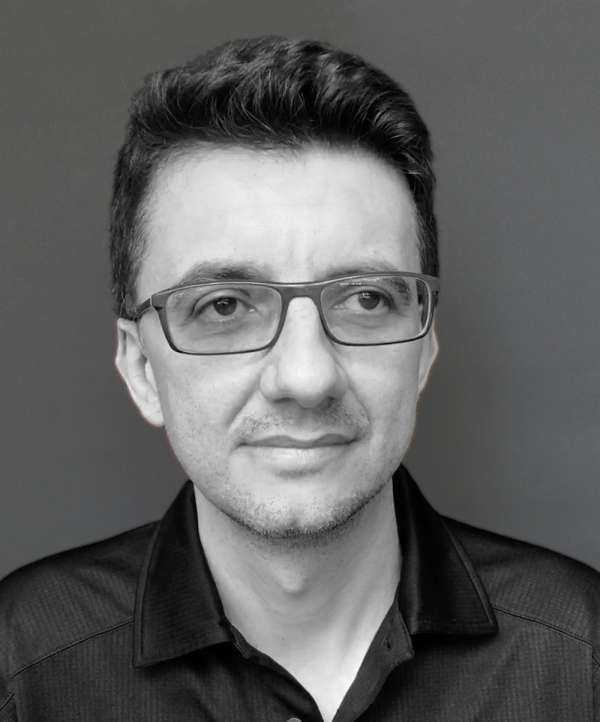
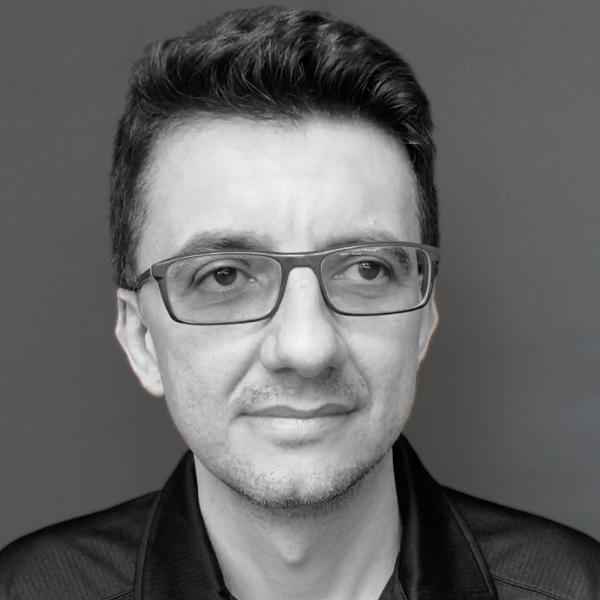
photo resize

diff --git a/_pages/authors.md b/_pages/authors.md
@@ -11,19 +11,15 @@ headm: 20
 
 # Katie Pine 
 
- <img src="./assets/imgs/katie_pine.jpeg" width="{{page.headw}}px"
- height="{{page.headh}}px" style="float: right; margin-right: {{page.headm}}px"; />
+ <img src="./assets/imgs/katie_pine.jpeg" width="400px"
+ style="float: right; margin-left: 10px"; />
 
  Katie Pine is an Assistant Professor in the College of Health Solutions at Arizona State University. Her interdisciplinary work lies at the intersection of health informatics, human-computer interaction (HCI), computer supported cooperative work (CSCW), and organization studies. She draws on and contributes to these fields with a focus on technology and work in the context of healthcare. Her work specifically examines how people use information and communications technologies (ICTs) as part of healthcare practice and how the design of ICTs, the contexts of ICT use, and the ways that people use ICTs impact how people give and receive healthcare. Pine has an ongoing stream of research examining data work, the situated social, technical, and organizational practices through which data are created, managed, and deployed. She utilizes primarily qualitative methods and collaborates to conduct team-based mixed methods studies and action research in concert with community and clinical partners. 
 
- <img src="./assets/imgs/logo/asu.png" width="400px" height="100px"/>
 
 # Yunan Chen 
- <img src="./assets/imgs/yunan_chen.jpeg" width="{{page.headw}}px"
- height="{{page.headh}}px" style="float: right; margin-right: {{page.headm}}px"; />
-
+ <img src="./assets/imgs/yunan_chen.jpeg" width="400px" style="float: right; margin-left: 10px";/>
 Yunan Chen is an associate professor of Informatics at Donald Bren School of Information and Computer Sciences at the University of California, Irvine (UCI), with an adjunct appointment in the Program in Public Health, College of Health Sciences. Her area of research lies at the intersection of human–computer interaction (HCI), computer supported cooperative work (CSCW), and health informatics. As a physician by training, she is interested in studying how health information is generated, managed, shared, and utilized to drive better care in both clinical and patient-oriented settings. In particular, she studies how end users (i.e., frontline clinicians, patients, and caregivers) interact with computerized technology. Her work reveals critical design problems that are not compatible with end users’ workflow and preferences and provides design insights to overcome these issues.
-<img src="./assets/imgs/logo/uci-logo.png" width="400px", height="100px" />
 
 
 # Melissa Mazmanian 
@@ -31,27 +27,27 @@ Yunan Chen is an associate professor of Informatics at Donald Bren School of Inf
  <img src="./assets/imgs/melissa.jpg" width="400px"
   style="float: right; margin-right: 10px;" />
 Melissa Mazmanian is a Professor and Chancellor’s Professor of Informatics at the Donald Bren School of Information and Computer Sciences and, jointly, of Organization and Management at the Merage School of Business at the University of California, Irvine. Melissa’s research interests revolve around the use of digital technologies in personal and organizational contexts, specifically in relation to  everyday work practice, communication patterns, and the nature of time in the digital age. She has published numerous papers in venues such as the Academy of Management Journal, Organization Science, MIS Quarterly, and the ACM conferences on Computer Human Interaction and Computer Supported Cooperative Work. She earned a PhD in Organization Studies from the MIT Sloan School of Management and a Masters in Information Economics, Management and Policy from the University of Michigan, School of Information
-<img src="./assets/imgs/logo/uci-logo.png" width="400px", height="100px" />
+
 
 # Mauricio Mejia
 
  <img src="./assets/imgs/mauricio-mejia-600x.png" width="400px"
- style="float: right; margin-right: 10px;" />
+ style="float: right; margin-left: 10px;" />
 G. Mauricio Mejía is a strategic design practitioner and scholar. He currently is Associate Professor of Design and Assistant Director of Research and Knowledge Enterprise for The Design School at Arizona State University. His current work is about strategic design and theories of change. He often collaborates with practitioners and researchers in other fields such as health, sustainability, business, and education. Dr. Mejía studies and works with diverse current and emergent design practices and approaches such as design research, visual sense-making, service design, experience design, co-design, and design futures. He received a PhD in Design from the University of Minnesota, Twin Cities, and a Master of Design degree from the University of Cincinnati.
-<img src="./assets/imgs/logo/asu.png" width="400px" height="100px"/>
 
 
 # Myeon Lee 
 
  <img src="./assets/imgs/Myeong.jpg" width="400px"
- style="float: right; margin-right: 10px;" />
+ style="float: right; margin-left: 10px;" />
+
 Myeong Lee is an Assistant Professor of Information Science and the Director of Community Informatics Lab (CIL) at the Department of Information Sciences and Technology at George Mason University. His research interests are in understanding the dynamics of local communities, technology-enabled groups, and information inequality. Though developing theories of information access and leveraging computational approaches, he aims to help reduce information inequality and contribute to civic engagement, policy-making, socio-technical systems theories, and information access. He earned a Ph.D. in Information Studies and a Master of Information Management from the University of Maryland's iSchool; he also received MS in Software Engineering and BS in Electrical Engineering degrees from Seoul National University in South Korea. 
-<img src="./assets/imgs/logo/gmu.png" width="400px", height="100px"/>
+
 
 # Rachel Warren 
 
- <img src="./assets/imgs/rachel_warren.jpg" width="400px" height = "400px"
-  style="float: right; margin-right: 10px;" />
+ <img src="./assets/imgs/rachel_warren.jpg" width="400px"
+  style="float: right; margin-left: 10px;" />
 
 Rachel Warren is pursuing a PHD in Informatics at the Donald Bren School of Information and Computer Sciences at the University of California, Irvine (UCI). Her work focuses on the implications of predictive technologies particularly the public sector. She is also interested in identifying the technology needs of civil servants and is engaged in building technology to help assist investigative journalists and public defenders. Prior to her academic work Rachel worked as a machine learning engineer and data scientist in industry most recently at Salesforce. She has a masters of Information Systems from the UC Berkley School of Information and a bachelors in Computer Science from Wesleyan University.
-<img src="./assets/imgs/logo/uci-logo.png" width="400px" height = "100px" />
+

diff --git a/_pages/frontpage.md b/_pages/frontpage.md
@@ -8,3 +8,15 @@ list_title: About
 # Understanding the Present and Designing the Future of Data-Intensive "Risk Work" in Emergency Services
 
 Most U.S. cities are served by all-hazards fire departments, staffed by fire personnel who provide a range of services to address and prevent medical, community health, safety, and fire emergencies. Traditionally, fire personnel rely on a combination of expert systems, organizational processes, and professional intuition honed through experience to identify and mitigate the risks they are tasked with handling. Presently, fire departments are struggling to stay abreast of a changing mission characterized by a continuous increase in  911 calls for diverse medical cases, while budgets stay flat. On the ground, fire departments are concerned with finding novel ways to prevent medical emergencies before they happen in the first place through mitigating risks upstream before they turn into chronic 911 calls and catastrophic events; for example, by getting opioid overdose patients into addiction treatment services, thus preventing a recurrent overdose. As ICTs with expanded capabilities for data collection, storage, and advanced analytics become widely available, the risk-work -- defined as working practices framed by risk -- done by emergency services will evolve and transform. Emerging data-intensive IT offers the potential to advance this risk-work by augmenting practices of identifying risks, translating risk knowledge, and managing risks at the individual, organizational, and institutional level, but the tools and sociotechnical practices necessary to do so have been slow to come; such tools and practices must further be designed with careful attention to potentially-negative, unintended consequences for work practice (e.g. increased data work), workers (e.g., increased disparities in risk knowledge), and communities (e.g., intensified surveillance of already surveilled populations) ,. This project has multiple goals to be achieved through three phases. First, we will document current practices of “risk-work” and risk-relevant data resources using in-depth ethnographic research in three fire departments in different contexts across the U.S. Second, we will co-design speculative prototypes for data-intensive sociotechnical risk-work tools and practices with our field sites. Third, we will bring design prototypes to a broad emergency services audience at a national conference to gather feedback and understand how our prototypes shift visions of the future for emergency services personnel.  
+
+## Support 
+
+
+<img src="./assets/imgs/logo/nsf.png" width="200px"/>
+
+<img src="./assets/imgs/logo/uci-logo.png" width="100px" style="float"/>
+
+<img src="./assets/imgs/logo/asu.png" width="100px"  style="float" />
+
+<img src="./assets/imgs/logo/gmu.png" width="100px"  style="float">
+
